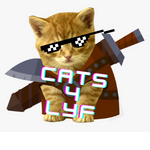
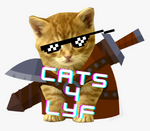
added header

diff --git a/src/App.js b/src/App.js
@@ -107,7 +107,7 @@ const App = () => {
     return (
       <div className="card">
         <img src={props.pic} className="imgCat rotate" alt="cat" />
-        <p>Hi, my name is {props.catName}. I love {props.music}</p>
+        <p>Hi, my name is {props.catName}. I love {props.music} music.</p>
         <div className="cardFooter">
           <p>£{props.amount}</p>
 
@@ -123,11 +123,15 @@ const App = () => {
         <Modal isOpen={showModal} >
           <Basket count={count} setCount={setCount} handleCloseModal={handleCloseModal} catsInfo={catsInfo} catName={catName} catPrice={catPrice} basketAdd={basketAdd} setBasketAdd={setBasketAdd} total={total} setTotal={setTotal} />
         </Modal>
+        <img className="cats5lyf" src={CatImg} />
+        <div className="countBtn">
+          <p>In basket: {count}</p>
+          
+          <button onClick={handleOpenModal} >Open Basket</button>
+          </div>
 
-        <button onClick={handleOpenModal} >Open Basket</button>
-      
-      <p>In basket: {count}</p>
-      <img src={CatImg} />
+
+        
       </div>
 
 

diff --git a/src/App.css b/src/App.css
@@ -106,4 +106,42 @@
     background-image: linear-gradient(315deg, #bdd4e7 0%, #8693ab 74%);
   }
 
+ .header {
+   display: flex;
+   position: relative;
+   width: 100vw;
+   height: 145px;
+
+ }
+ .cats5lyf {
+   /* position: absolute; */
+   /* left:50%;
+   transform: translateX(-50%); */
+   margin: 0 auto;
+   height: 100%;
+   animation: rotation 2s infinite linear;
+ }
+
  
+
+ .countBtn {
+   position: absolute;
+   right: 5%;
+   top: 50%;
+   transform: translateY(-50%);
+  
+   
+ }
+
+ 
+@keyframes rotation {
+  0% {
+    transform: rotate(-45deg) scale(1);
+  }
+  50% {
+    transform: rotate(45deg) scale(1.2);
+  }
+  100% {
+    transform: rotate(-45deg) scale(1);
+  }
+}
